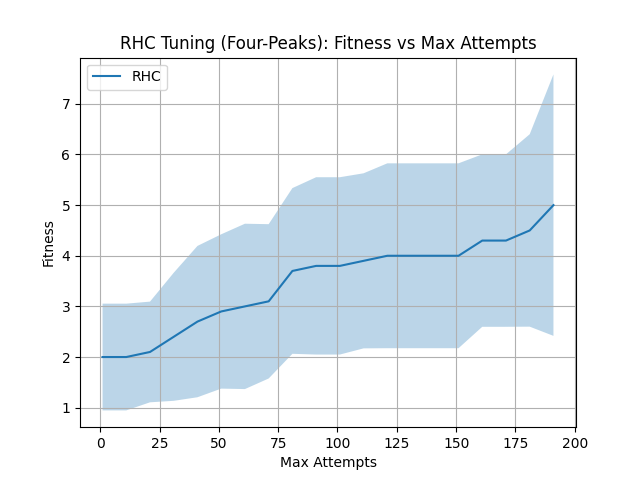
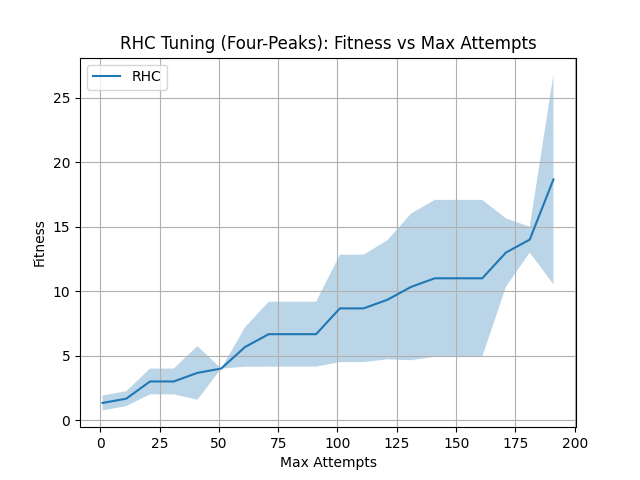
ll

diff --git a/A2/rhc.py b/A2/rhc.py
@@ -5,7 +5,8 @@ import pandas as pd
 from timeit import default_timer as timer
 
 
-seeds = [42, 69, 408, 420, 300, 12345, 54321, 90210, 101010, 343434]
+# seeds = [42, 69, 408, 420, 300, 12345, 54321, 90210, 101010, 343434]
+seeds = [42, 69, 408]
 
 # 1) Define fitness function
 fitness = mlrose.FourPeaks(t_pct=0.1)
@@ -154,10 +155,6 @@ problem_range = range(2, 200, 10)
 
 for seed in seeds:
 
-    # Init a state [random seed here]
-    np.random.seed(seed)
-    init_state = np.random.randint(2, size=size)
-
     rhc_fitness_scores = []
     rhc_time = []
     rhc_iterations = []
@@ -169,6 +166,9 @@ for seed in seeds:
             fitness_fn=fitness,             # Fitness function
             max_val=2                       # zaraPossible different states
         )
+
+        np.random.seed(seed)
+        init_state = np.random.randint(2, size=size)
 
         start = timer()
 
@@ -197,24 +197,14 @@ rhc_seed_avg = rhc_df.mean(axis=1)
 iter_seed_avg = iter_df.mean(axis=1)
 rhc_time_seed_avg = time_df.mean(axis=1)
 
-rhc_std = rhc_df.std(axis=1)
-iter_std = iter_df.std(axis=1)
-rhc_time_seed_std = time_df.std(axis=1)
+# rhc_std = rhc_df.std(axis=1)
+# iter_std = iter_df.std(axis=1)
+# rhc_time_seed_std = time_df.std(axis=1)
 
 plt.clf()
 plt.plot(problem_range, rhc_seed_avg, label="RHC")
-plt.fill_between(problem_range, rhc_seed_avg-rhc_std, rhc_seed_avg+rhc_std, alpha=0.3)
-plt.title("RHC (Four-Peaks): Fitness vs Iterations")
-plt.xlabel('Iterations')
-plt.ylabel('Fitness')
-plt.legend(loc='best')
-plt.grid()
-# plt.show()
-plt.savefig("./A2/plots/4p-RCH-FitVsIter.png")
-
-plt.plot(problem_range, iter_seed_avg, label="RHC")
-plt.fill_between(problem_range, iter_seed_avg-iter_std, iter_seed_avg+iter_std, alpha=0.3)
-plt.title("Four-Peaks: Fitness vs Problem Size")
+plt.fill_between(problem_range, rhc_df.min(axis=1), rhc_df.max(axis=1), alpha=0.3)
+plt.title("RHC (Four-Peaks): Fitness vs Problem Size")
 plt.xlabel('Problem Size')
 plt.ylabel('Fitness')
 plt.legend(loc='best')
@@ -222,9 +212,126 @@ plt.grid()
 # plt.show()
 plt.savefig("./A2/plots/4p-RCH-FitVsSize.png")
 
+
+######################################################################################################
+
+
+rhc_df = pd.DataFrame()
+time_df = pd.DataFrame()
+iter_df = pd.DataFrame()
+
+iter_sweep = np.arange(1, 1001, 50)
+size = 128
+
+for seed in seeds:
+
+    rhc_fitnessIter_scores = []
+    rhc_time = []
+    rhc_iterations = []
+
+    for iter_val in iter_sweep:
+
+        problem = mlrose.DiscreteOpt(
+            length=size,                    # Length of state vector
+            fitness_fn=fitness,             # Fitness function
+            max_val=2                       # zaraPossible different states
+        )
+
+        np.random.seed(seed)
+        init_state = np.random.randint(2, size=size)
+
+        start = timer()
+
+        rhc_best_state, rhc_best_fitness, rhc_curve = mlrose.random_hill_climb(
+            problem,                        # Made in step 2
+            max_attempts = 200,           # on the tin
+            max_iters = iter_val,             # on the tin
+            restarts=5,                     # on the tin
+            init_state = init_state,        # made this above
+            curve=True,                     # Makes 3rd return into plottable curve
+            random_state = seed,            # Random seed here
+        )
+
+        print(f"Runtime: {timer() - start}")
+        clock_time = timer() - start
+
+        rhc_time.append(clock_time)
+        rhc_fitnessIter_scores.append(rhc_best_fitness)
+    
+    time_df = pd.concat((time_df, pd.DataFrame(rhc_time)), axis=1)
+    rhc_df = pd.concat((rhc_df, pd.DataFrame(rhc_fitnessIter_scores)), axis=1)
+
+rhc_seed_avg = rhc_df.mean(axis=1)
+rhc_time_seed_avg = time_df.mean(axis=1)
+
+plt.clf()
+plt.plot(np.arange(1, 1001, 50), rhc_seed_avg, label="RHC")
+plt.fill_between(np.arange(1, 1001, 50), rhc_df.min(axis=1), rhc_df.max(axis=1), alpha=0.3)
+plt.title("RHC (Four-Peaks): Fitness vs Max Iterations")
+plt.xlabel('Max Iterations')
+plt.ylabel('Fitness')
+plt.legend(loc='best')
+plt.grid()
+# plt.show()
+plt.savefig("./A2/plots/4p-RCH-FitVsIter.png")
+
+
+######################################################################################################
+
+
+rhc_df = pd.DataFrame()
+time_df = pd.DataFrame()
+iter_df = pd.DataFrame()
+
+iter_sweep = np.arange(1, 1001, 50)
+size = 128
+
+for seed in seeds:
+
+    rhc_fitnessIter_scores = []
+    rhc_time = []
+    rhc_iterations = []
+
+    for iter_val in iter_sweep:
+
+        problem = mlrose.DiscreteOpt(
+            length=size,                    # Length of state vector
+            fitness_fn=fitness,             # Fitness function
+            max_val=2                       # zaraPossible different states
+        )
+
+        np.random.seed(seed)
+        init_state = np.random.randint(2, size=size)
+
+        start = timer()
+
+        rhc_best_state, rhc_best_fitness, rhc_curve = mlrose.random_hill_climb(
+            problem,                        # Made in step 2
+            max_attempts = 200,           # on the tin
+            max_iters = iter_val,             # on the tin
+            restarts=5,                     # on the tin
+            init_state = init_state,        # made this above
+            curve=True,                     # Makes 3rd return into plottable curve
+            random_state = seed,            # Random seed here
+        )
+
+        print(f"Runtime: {timer() - start}")
+        clock_time = timer() - start
+
+        rhc_time.append(clock_time)
+        rhc_fitnessIter_scores.append(rhc_best_fitness)
+    
+    time_df = pd.concat((time_df, pd.DataFrame(rhc_time)), axis=1)
+    rhc_df = pd.concat((rhc_df, pd.DataFrame(rhc_fitnessIter_scores)), axis=1)
+
+rhc_seed_avg = rhc_df.mean(axis=1)
+rhc_time_seed_avg = time_df.mean(axis=1)
+
+
+plt.clf()
 plt.plot(problem_range, rhc_time_seed_avg, label="RHC")
 plt.fill_between(problem_range, rhc_time_seed_avg-rhc_time_seed_std, rhc_time_seed_avg+rhc_time_seed_std, alpha=0.3)
-plt.title("Four-Peaks: Fitness vs Time")
+plt.title("RHC (Four-Peaks): Fitness vs Time")
 plt.xlabel('Problem Size')
 plt.ylabel('Time')
 plt.legend(loc='best')

diff --git a/A2/sandbox.py b/A2/sandbox.py
@@ -24,13 +24,13 @@ for seed in seeds:
     rhc_time = []
     rhc_iterations = []
 
-    for size in problem_range:      ### <<<<<<
+    for size in problem_range:              ### <<<<<<
 
         np.random.seed(seed)
         init_state = np.random.randint(2, size=128)
 
         problem = mlrose.DiscreteOpt(
-            length=128,             ### <<<<<<
+            length=problem_size,             ### <<<<<<
             fitness_fn=fitness,
             max_val=2
         )
@@ -40,7 +40,7 @@ for seed in seeds:
         rhc_best_state, rhc_best_fitness, rhc_curve = mlrose.random_hill_climb(
             problem,                        # Made in step 2
             max_attempts = 200,           # on the tin
-            max_iters = np.inf,             # on the tin
+            max_iters = 7,             # on the tin
             restarts=5,                     # on the tin
             init_state = init_state,        # made this above
             curve=True,                     # Makes 3rd return into plottable curve

diff --git a/A2/4_peaks.py b/A2/4_peaks.py
@@ -151,8 +151,8 @@ plt.xlabel('Problem Size')
 plt.ylabel('Fitness')
 plt.legend(loc='best')
 plt.grid()
-# plt.show()
-plt.savefig("fitness-4-peaks-init.png")
+plt.show()
+# plt.savefig("fitness-4-peaks-init.png")
 
 # Score
 # print(fitness.evaluate(best_state)) # same as print(best_fitness)  ???????
